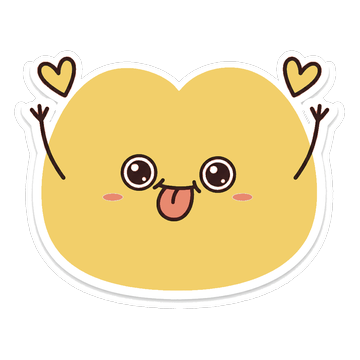
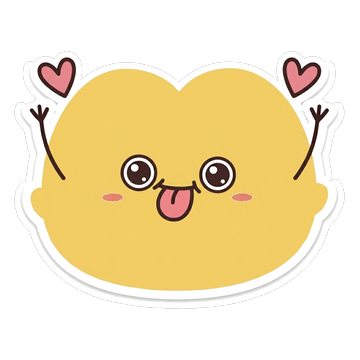
fix(chat): 블리의 리본과 하트를 분홍으로 — 노란 몸통에 묻히던 소품 두 장
색상만 돌리는 방식이라 초록이던 소품이 몸통과 같이 노래졌다. 후처리로는 못 되돌린다 —
원본(초록)에서도 소품이 몸통과 같은 초록이라 색으로 가를 단서가 없다. 그래서 두 장만
다시 뽑았다.

기준 원본을 노랑으로 돌려 bli-anchor.png 를 만들고 그걸 --ref 로 박은 뒤 --extra 로 소품
색만 지정했다. **색 후처리는 건너뛴다** — 돌리면 장밋빛 소품이 홍조 범위에 걸려 산호색으로
끌려간다. 노란 앵커로 뽑아 몸통이 #F1CC62 로 나왔고 세트 기준 #F2CF6A 와 눈에 안 보이는
차이라 그대로 썼다.

좋아좋아는 두 번 뽑았다 — 첫 판은 하트는 분홍이 됐는데 팔이 몸통과 같은 노란색으로 그려져
사라졌다. "팔은 얼굴선과 같은 진한 갈색으로 그리고 몸통 색으로 그리지 말 것"을 박아 잡았다.
색을 지정할 때는 그리지 말아야 할 색도 같이 적어야 한다.

검증: npm run typecheck, StickerImageSyncTest, build:web(dist 38장).

diff --git a/docs/COUPLE_EMOJI_AI_DESIGN_2026-09-08.md b/docs/COUPLE_EMOJI_AI_DESIGN_2026-09-08.md
@@ -849,11 +849,20 @@ CLAUDE.md 6절). 프론트 `typecheck`·`build:web` 통과.
 홍조를 잡는 규칙은 몸통과 같은 함정을 갖는다 — **명도 0.55 미만은 빼야 한다.** 안 빼면 갈색
 윤곽선이 산호색으로 물든다.
 
-### 색상만 돌리는 방식의 한계
+### 색상만 돌리는 방식의 한계 — 소품 두 장은 다시 뽑았다
 
-초록이던 **소품도 같이 노래진다**. 리본이 몸통과 같은 색이 되어 윤곽선으로만 구분되고,
-`좋아좋아`의 하트도 노란 하트가 됐다. 소품만 따로 잡아 되돌리려면 색 말고 위치·모양 단서가
-필요한데, 지금은 윤곽선이 있어 읽히므로 두었다. 거슬리면 그 장만 다시 뽑는 편이 빠르다.
+초록이던 **소품도 같이 노래진다**. 리본이 몸통과 같은 색이 되고 `좋아좋아`의 하트도 노란
+하트가 됐다. **후처리로는 되돌릴 수 없다** — 원본(초록)에서도 소품이 몸통과 같은 초록이라
+색으로 가를 단서가 없다. 그래서 그 두 장만 다시 뽑았다.
+
+방법: `bigae-anchor.png` 를 노랑으로 돌려 `bli-anchor.png` 를 만들고, 그걸 `--ref` 로 박은 뒤
+`--extra` 로 소품 색만 지정했다(soft rose pink). **색 후처리는 건너뛴다** — 돌리면 장밋빛 소품이
+홍조 범위에 걸려 산호색으로 끌려간다. 노란 앵커로 뽑았더니 몸통이 `#F1CC62` 로 나와 세트 기준
+`#F2CF6A` 와 눈에 안 보이는 차이라 그대로 썼다.
+
+`좋아좋아`는 두 번 뽑았다. 첫 판은 하트는 분홍이 됐는데 **팔이 몸통과 같은 노란색으로 그려져
+사라졌다.** "팔은 얼굴선과 같은 진한 갈색 윤곽으로 그리고 몸통 색으로 그리지 말 것"을 박아
+해결했다 — 색을 지정할 때는 **그리지 말아야 할 색도** 같이 적어야 한다.
 
 ### 코드 이름도 바꿨다
 
